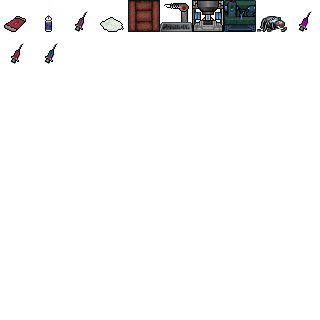
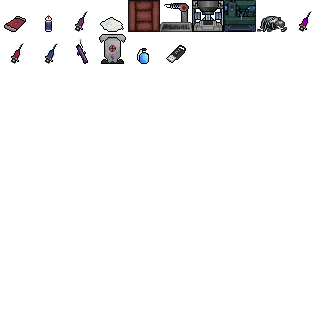
v1.5.6 continued
See changelog

diff --git a/PoraComp/README.md b/PoraComp/README.md
@@ -26,6 +26,8 @@ MutEx Changes
 	Buffed bloated zed
 		- Now can knock down/stun on explosion
 	Moved around effects for better organization
+	Added glowing smoker
+		- Smoker but emits radiation fields c:
 	
 BioCo Changes
 
